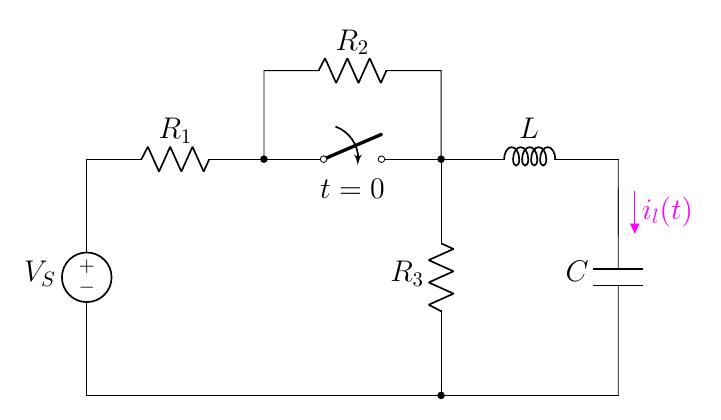
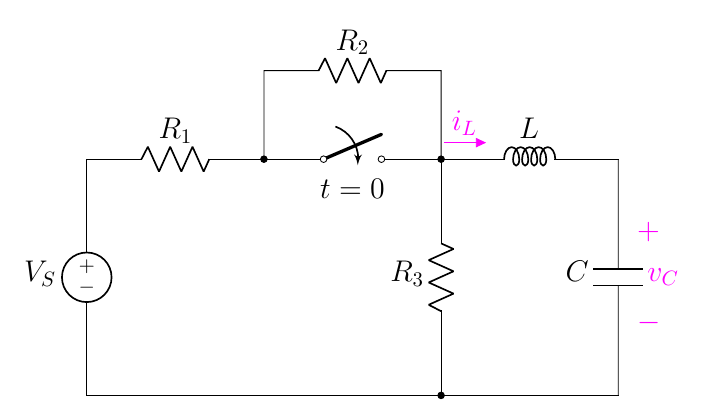
8.41

diff --git a/2.9 Step Response of a Serie RLC/8.5 Complete Response Series/8.41(new).tex b/2.9 Step Response of a Serie RLC/8.5 Complete Response Series/8.41(new).tex
@@ -32,11 +32,11 @@
     %%% find %%%
     \node at(4.5,3.5) []{$t=0$};
 
-    % \draw[magenta](6.2,1)
-    %     to[open,v>=$v_c(t)$] ++(0,2);
+    \draw[magenta](9.2,1)
+        to[open,v>=$v_C$] ++(0,2);
 
-    \draw[circuitikz/current arrow color=magenta](9,3.5)
-        to[open,f>^=$\color{magenta}{i_l(t)}$] ++(0,-2);
+    \draw[circuitikz/current arrow color=magenta](6,4)
+        to[open,f>^=$\color{magenta}{i_L}$] ++(2,0);
 
 \end{circuitikz}
 \end{document}
